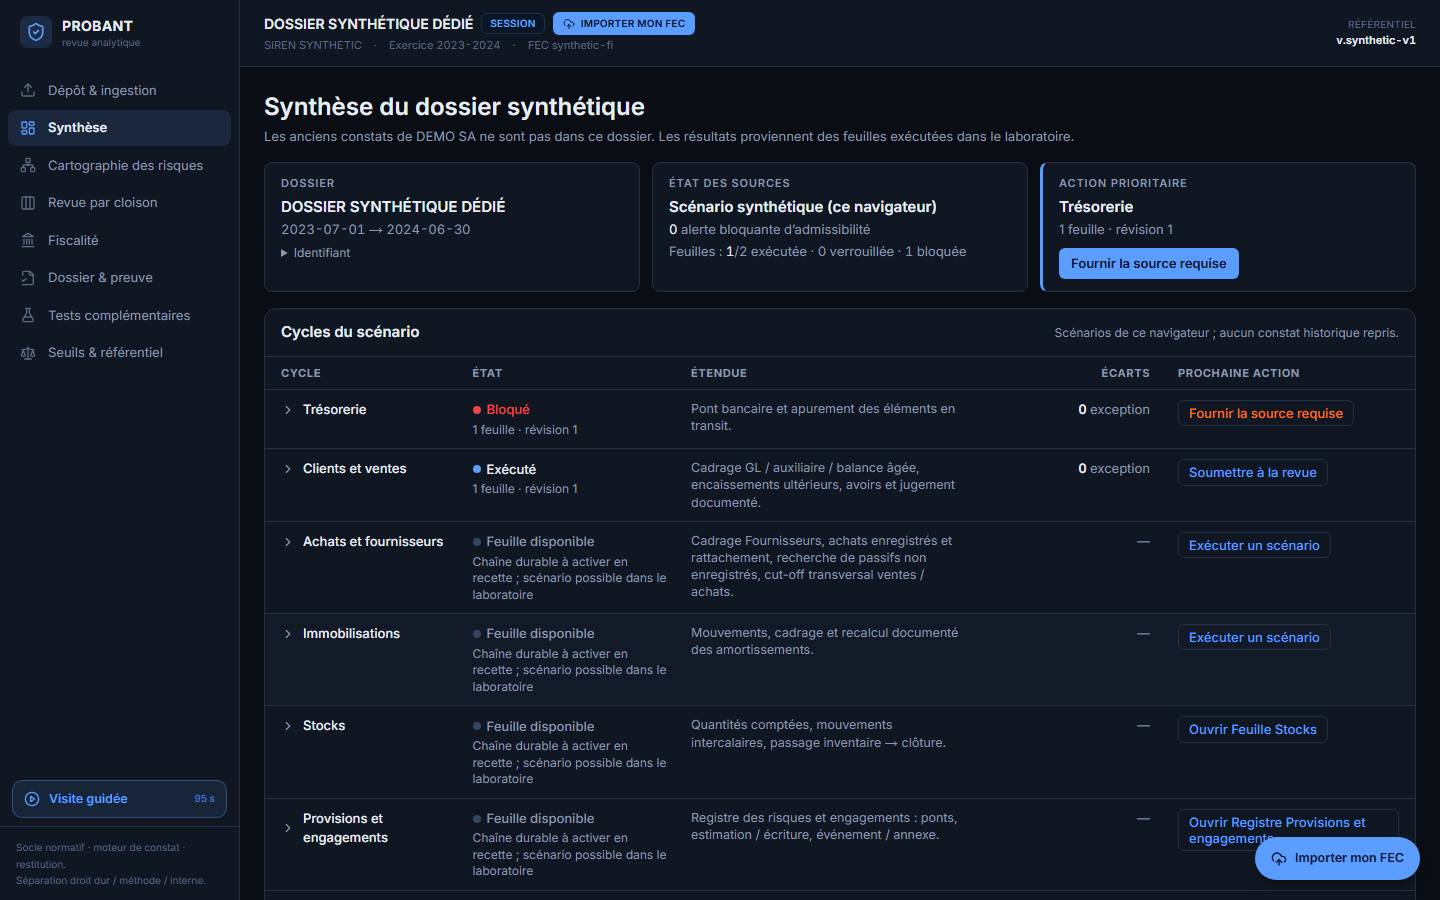
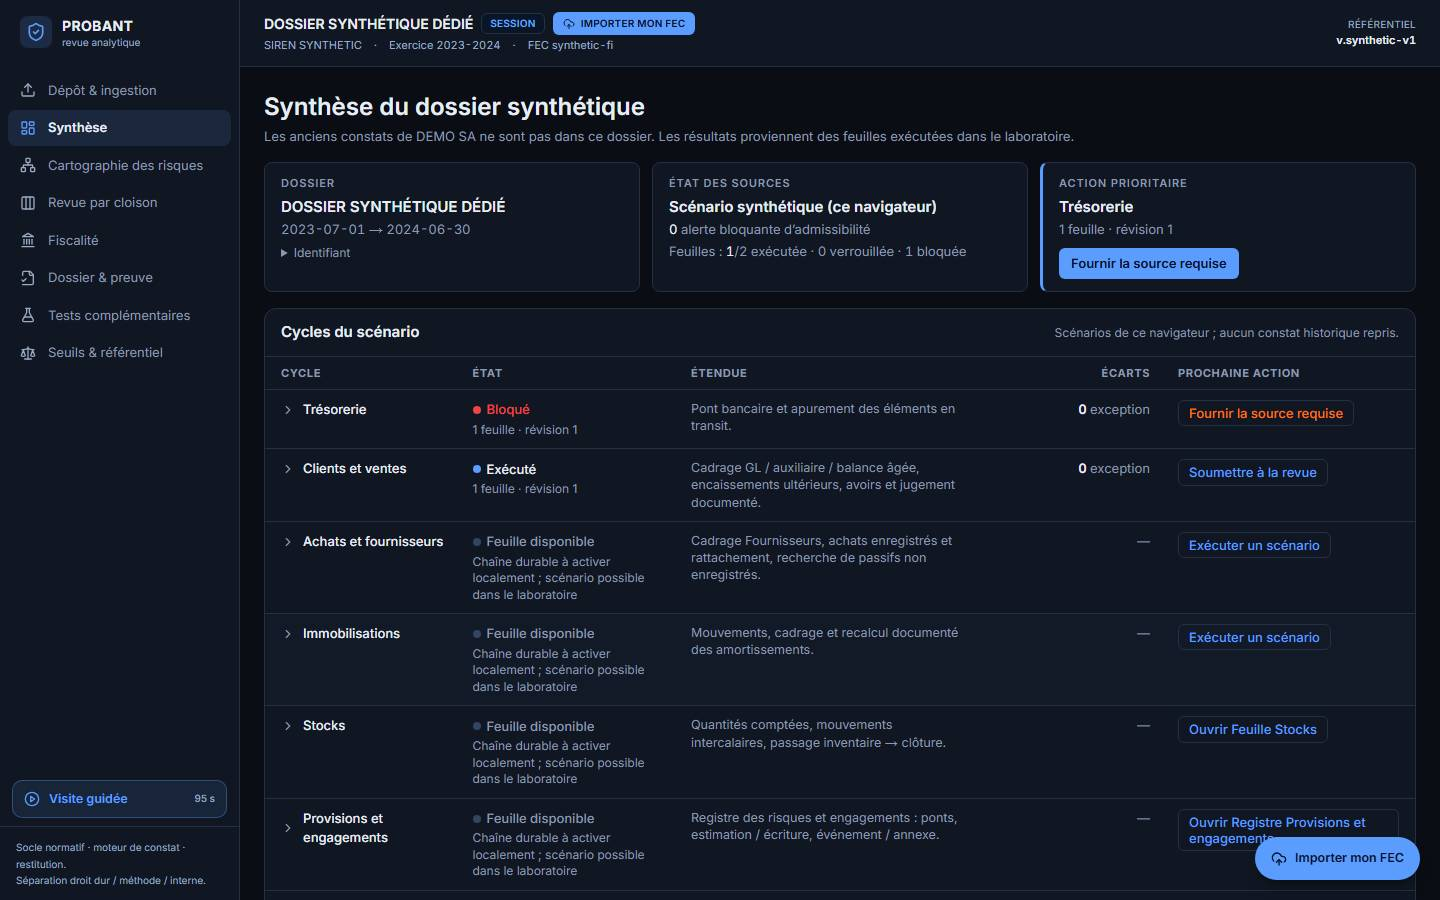
docs(c02): handoff et descriptif de PR après fusion de main (registre C01, liens contextuels) ; captures régénérées

diff --git a/docs/probant-lots/HANDOFF.md b/docs/probant-lots/HANDOFF.md
@@ -1,11 +1,12 @@
 # Handoff — Mission C02 : finition de Synthèse, Tests et du laboratoire de scénarios (2026-10-13)
 
-**Base.** `main` `ab8f991` (fusion de la Mission 19). C'est aussi la base du diagnostic du 12/10/2026 (`PROBANT-PROMPTS-CONSOLIDATION-2026-10-12.md`). Travail local dans le worktree `cockpit-fiscalite-dashboard-1c1ba9`, branche `claude/dashboard-socle-commun-0b7995`. **Non poussé, aucune PR distante, aucun déploiement.** Descriptif de PR prêt : [C02_PR.md](C02_PR.md).
+**Base.** PR [#73](https://github.com/ludoviclabs-dotcom/PROBANT/pull/73), branche `claude/dashboard-socle-commun-0b7995`, ouverte sur `main` `ab8f991` puis **fusionnée avec `main` `97b298f`** (PR #74 : lots C00 et C01 de Codex) dans le commit de fusion `cb83680`. Descriptif de PR : [C02_PR.md](C02_PR.md). Aucun déploiement.
 
-**Dépendances constatées, pas simulées.** Ni C00 (correctifs M20) ni C01 (contexte de dossier canonique, registre de capacités unique) ne sont livrés sur cette base : aucune branche locale ou distante ne les porte. Ce lot réalise les travaux indépendants et documente ce qui attend C01 :
-- le registre de cycles de ce lot est une **projection** (`lib/dossier/cycle-registry.ts`) des manifestes existants, en lecture seule, qui cite sa source champ par champ : `CL_ENGINE_PROCEDURES` et `CL_CYCLE_LABELS` (closing-contract), `demoCycleSchema` (demo-cycles), `MODULE_MANIFEST` (availability), silos de la taxonomie. C01 doit l'absorber ; aucun autre composant ne redéclare ces entrées ;
-- les liens générés ne transmettent pas encore un contexte dossier / exercice canonique (CTX-01, C01) ;
-- la capacité « local persistant » est déclarée « configurée — activation requise » pour les chaînes durables existantes, sans vérifier leur activation (C07).
+**Raccordement au registre C01 (après fusion).** C01 livre le registre unique `lib/capabilities/registry.ts` (14 périmètres : 13 cycles du journal + Dettes financières, 15 procédures, 10 exercices d'atelier, routes, sources, exclusions, modes), le contexte de navigation canonique (`DossierContextLink`, `navigationContext`) et le panneau `CapabilityAccess`. Ce lot s'y raccorde :
+- `lib/dossier/cycle-registry.ts` ne redéclare plus les cycles : `CYCLE_REGISTRY` est projeté depuis `CAPABILITY_REGISTRY` (cycles, procédures, scénarios, routes, sources, exclusions, capacité par mode) ; le module n'ajoute que la présentation (étendue en une phrase, silos des constats historiques, libellés d'accès, limites héritées des anciens paragraphes) et la projection d'un dossier (état, écarts, prochaine action) ;
+- tous les liens des composants C02 (`CycleRegistryList`, `DossierContextBar`, laboratoire, synthèse de scénario) passent par `DossierContextLink` : dossier, entité, exercice, référentiel et mode sont transmis (CTX-01 résolu par C01) ;
+- `CapabilityAccess` (implémentation, configuration locale lue par `/api/dossier-capabilities`, travail observé) est conservé dans le volet « Méthode · capacités, disponibilité et limites par module », ouvert par défaut, sous la liste des cycles ; la synthèse de scénario lui transmet explicitement son contexte ;
+- la capacité « local persistant » reste affichée « configurée — activation requise » dans la ligne de cycle ; l'activation réelle est celle que lit le panneau de capacités (C07).
 
 ## Problème utilisateur, vue choisie, données, interactions
 
@@ -57,6 +58,7 @@
 | Build de production | OK |
 | `e2e/c02-finition.spec.ts` | 14/14 : 3 largeurs × (Synthèse dossier courant, Tests vide + volet, scénario repris + feuille bloquée + synthèse du scénario) ; erreur de reprise, chargement, identifiant long, programme long (10 scénarios), mouvement réduit. Débordement global nul partout ; axe « serious / critical » = 0 sur le contenu des vues |
 | `e2e/phase-de.spec.ts`, `e2e/workpaper-results.spec.ts`, `e2e/demo-journey.spec.ts`, `e2e/accessibility.spec.ts` | 25/25 (3 + 10 + 4 + 8) ; la dette « serious » gelée de la Synthèse n'est pas aggravée |
+| Après fusion avec `main` (C00 + C01) : `c02-finition`, `c01-context`, `phase-de`, `workpaper-results`, `demo-journey`, `accessibility` sur le build fusionné | 50/50 ; captures `apres/` régénérées sur ce build |
 
 **Non exécuté localement** : les recettes PostgreSQL (`*.integration.test.ts`) — pas de base jetable sur ce poste ; elles tournent en CI. Un lecteur d'écran réel n'a pas été utilisé : NON VÉRIFIÉ.
 
@@ -68,7 +70,7 @@ L'inspection a fait corriger : la table des cycles trop étroite à 1024 px (lar
 
 ## Limites et maturité
 
-- Registre C02 en attendant C01 ; contexte dossier / exercice non transmis dans les liens ; capacité persistante non vérifiée.
+- Capacité persistante affichée « configurée » dans la ligne de cycle sans vérification d'activation ; l'activation réelle est lue par le panneau de capacités C01 (C07).
 - Le chrome partagé (Sidebar, bandeau, lanceur de visite) garde la dette de contraste `--pb-text-faint` gelée par `accessibility.spec.ts` ; le contrôle strict de ce lot porte sur le contenu de `<main>`.
 - **Défaut global constaté, non corrigé ici** : `app/globals.css` pose `* { border-color: var(--pb-border) }` hors de toute `@layer`. Une règle non stratifiée l'emporte sur les utilitaires Tailwind (stratifiés), si bien que toute classe `border-<couleur>` de l'application est silencieusement ignorée. Ce lot pose ses couleurs de bordure sémantiques en style inline (`borderLeftColor`) ; la correction globale (mettre la règle dans `@layer base`) relève d'un lot de finition transversal (C15) car elle réactive des couleurs de bordure partout.
 - `ModuleAvailability` et `WorkpaperPanel` ne sont pas restylés : ils vivent dans le volet « Méthode » et la preuve.
@@ -76,7 +78,7 @@ L'inspection a fait corriger : la table des cycles trop étroite à 1024 px (lar
 
 ## Dépendances du lot suivant
 
-- C01 : absorber `CYCLE_REGISTRY` (routes, procédures, scénarios, silos, capacités), transmettre dossier / exercice dans `sheet` / `synthesis` / `secondary`, remplacer `MODULE_MANIFEST` comme source des limites.
+- C01 (livré, fusionné) : si le registre reçoit un jour l'étendue et les silos par cycle, retirer `PRESENTATION` de `cycle-registry.ts`.
 - C03 : les « tests suggérés par constat » restent choisis par `siloId` (MET-01).
 - C07 : qualifier la capacité « local persistant » depuis l'activation réelle.
 

diff --git a/docs/probant-lots/C02_PR.md b/docs/probant-lots/C02_PR.md
@@ -4,12 +4,12 @@ Titre : Synthèse, Tests et laboratoire : espace professionnel raccordé à un r
 
 La Synthèse empilait onze paragraphes de liens vers les modules avant le verdict, et la page Tests ouvrait sur un bandeau ambre hors thème qui mélangeait entrée dans l'atelier, reprise de session et explications de méthode. Les deux écrans sont réorganisés : dossier, état des sources et action prioritaire d'abord, puis une liste continue des cycles générée depuis un registre unique (état, étendue, écarts, prochaine action ; exclusions, sources, accès et capacité par mode dans la ligne). Le laboratoire de scénarios devient un lanceur compact dans le thème graphite, actions Nouveau / Reprendre, volet « Mode et sauvegarde » accessible au clavier (focus, Échap) avec l'identifiant complet copiable ; l'ambre n'habille plus que les blocages.
 
-Le registre (`lib/dossier/cycle-registry.ts`) est une projection en lecture seule des manifestes existants (procédures outillées du contrat de clôture, scénarios du laboratoire, limites du manifeste de disponibilité, silos des constats historiques). Il cite ses sources champ par champ et ne crée pas de seconde vérité ; la Mission C01, non livrée sur cette base, doit l'absorber. Aucun chiffre n'est recalculé dans React : les lignes consomment le résumé des feuilles et les constats du snapshot, sans somme entre catégories.
+Après fusion de `main` (PR #74, lots C00 et C01), les lignes de cycle (`lib/dossier/cycle-registry.ts`) sont projetées depuis le registre unique de capacités C01 (`lib/capabilities/registry.ts`) ; le module n'ajoute que la présentation (étendue, silos des constats historiques, libellés d'accès, limites héritées) et la projection d'un dossier (état, écarts, prochaine action). Les liens passent par `DossierContextLink` ; le panneau `CapabilityAccess` de C01 reste dans le volet « Méthode ». Aucun chiffre n'est recalculé dans React : les lignes consomment le résumé des feuilles et les constats du snapshot, sans somme entre catégories.
 
 Incident M20-UI-03 corrigé : une feuille fraîchement chargée, verrouillée ou affichée en version exacte sans saisie n'est plus « non sauvegardée ». Le brouillon hydraté est comparé à sa base serveur (`lib/workpapers/draft-state.ts`) dans les feuilles Clients, Capitaux propres historique et Achats ; une vraie saisie, son annulation, l'accusé serveur et les conflits conservent leur libellé.
 
 Validation : tests unitaires et de composants dédiés, typecheck, lint ; recette Playwright réelle sur le build de production aux largeurs 390, 1024 et 1440 (vide, dossier courant, scénario repris, erreur de reprise, chargement, identifiant long, programme long, réduction des animations), zéro débordement global, zéro violation axe « serious / critical » sur le contenu des vues modifiées. Captures avant / après dans `docs/probant-lots/c02-captures/`.
 
-Limites : registre C02 en attendant C01 (contexte de dossier canonique non transmis dans les liens, capacité « local persistant » déclarée « configurée » sans vérification d'activation) ; le chrome partagé (Sidebar, bandeau) garde la dette de contraste `--pb-text-faint` documentée, hors de ce lot ; recette PostgreSQL non exécutée localement (pas de base jetable sur ce poste). Aucun déploiement, aucune fusion.
+Limites : capacité « local persistant » affichée « configurée » dans la ligne de cycle sans vérification d'activation (lue par le panneau de capacités C01, C07) ; le chrome partagé (Sidebar, bandeau) garde la dette de contraste `--pb-text-faint` documentée, hors de ce lot ; recette PostgreSQL non exécutée localement (pas de base jetable sur ce poste). Aucun déploiement, aucune fusion.
 
 La PR cible `main`. Aucun merge ni déploiement réalisés.
